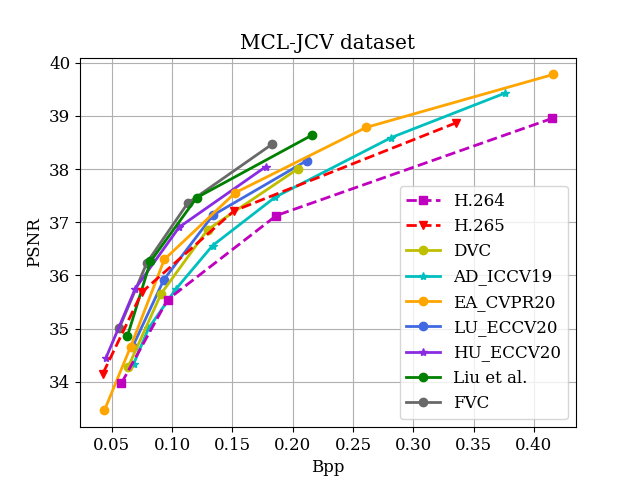
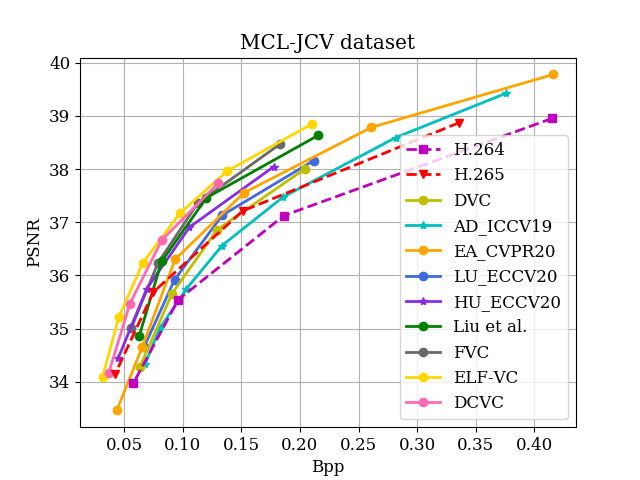
add benchmark

diff --git a/Benchmark/draw_HEVC.py b/Benchmark/draw_HEVC.py
@@ -28,6 +28,9 @@ def drawhevc(hclass):
         bpp, psnr = [0.2355, 0.1192, 0.0739, 0.0559], [35.5245, 34.416, 33.3334, 32.0969]
         Liu, = plt.plot(bpp, psnr, "c-o", color="green", linewidth=LineWidth, label='Liu et al.')
 
+        bpp, psnr =[0.040289277833824355, 0.061040674080699686, 0.09433236599713564, 0.15265098729928334], [31.616849353790283, 32.84782929992676, 33.94570527267456, 34.87294593811035] 
+        DCVC, = plt.plot(bpp, psnr, "c-o", color="hotpink", linewidth=LineWidth, label='DCVC')
+
         # bpp = [0.0661, 0.09362000000000001, 0.14695999999999998, 0.2232]
         # psnr = [32.721524294756705, 33.61284158051482, 34.75174138791608, 35.718610694312616]
         # msssim = [0.959144, 0.964186, 0.97111, 0.9765840000000001]
@@ -65,6 +68,9 @@ def drawhevc(hclass):
 
         bpp, psnr = [0.3777, 0.2371, 0.1446, 0.0982], [33.6704, 32.3317, 30.7426, 29.273]
         Liu, = plt.plot(bpp, psnr, "c-o", color="green", linewidth=LineWidth, label='Liu et al.')
+
+        bpp, psnr = [0.08087719868104853, 0.12708667685592465, 0.18865849206403185, 0.2718540310294746], [28.314245862960817, 29.971384420394898, 31.30502407550812, 32.284087176322934] 
+        DCVC, = plt.plot(bpp, psnr, "c-o", color="hotpink", linewidth=LineWidth, label='DCVC')
         
         # bpp = [0.12157499999999999, 0.17965, 0.271025, 0.38745]
         # psnr = [28.63609903605147, 29.944387388321196, 31.54062511303266, 33.03500011196936]
@@ -104,6 +110,9 @@ def drawhevc(hclass):
         bpp, psnr = [0.3785, 0.2395, 0.1496, 0.1036], [34.2622, 32.5959, 30.9119, 29.4029]
         Liu, = plt.plot(bpp, psnr, "c-o", color="green", linewidth=LineWidth, label='Liu et al.')
 
+        bpp, psnr = [0.08711765038211727, 0.13590804261362385, 0.19764378561327856, 0.28633494290419753], [28.154973974227904, 29.943532361984253, 31.531896958351137, 32.7050665140152] 
+        DCVC, = plt.plot(bpp, psnr, "c-o", color="hotpink", linewidth=LineWidth, label='DCVC')
+
         
         # bpp = [0.11227499999999999, 0.17395000000000002, 0.264575, 0.38207500000000005]
         # psnr = [28.82520179437781, 30.23478970812226, 31.91116994008828, 33.53631860458036]
@@ -140,6 +149,9 @@ def drawhevc(hclass):
         bpp, psnr = [0.063, 0.0292, 0.018, 0.0137], [39.4295, 38.3259, 37.2213, 35.8482]
         Liu, = plt.plot(bpp, psnr, "c-o", color="green", linewidth=LineWidth, label='Liu et al.')
 
+        bpp, psnr = [0.01683933672804216, 0.02703989761424335, 0.035054004512332156, 0.05369957348563228], [34.676219838460284, 36.17811138153076, 37.49404130299886, 38.48175212860107] 
+        DCVC, = plt.plot(bpp, psnr, "c-o", color="hotpink", linewidth=LineWidth, label='DCVC')
+
         # bpp = [0.02223333333333333, 0.0281, 0.04416666666666667, 0.06459999999999999]
         # psnr = [36.119993400198794, 36.895272069830746, 37.95133358562974, 38.59336757723919]
         # msssim = [0.97991, 0.98177, 0.9831466666666667, 0.98547]
@@ -170,9 +182,9 @@ def drawhevc(hclass):
     if not os.path.exists(prefix):
         os.makedirs(prefix)    
     if hclass != 'E':
-        plt.legend(handles=[h264, h265, DVC, DVCp, RY, Liu, LU, RaFC, FVC], loc=4)
+        plt.legend(handles=[h264, h265, DVC, DVCp, RY, Liu, LU, RaFC, FVC, DCVC], loc=4)
     else:
-        plt.legend(handles=[h264, h265, DVC, DVCp, Liu, LU, RaFC, FVC], loc=4)
+        plt.legend(handles=[h264, h265, DVC, DVCp, Liu, LU, RaFC, FVC, DCVC], loc=4)
 
     plt.grid()
     plt.xlabel('Bpp')
@@ -198,6 +210,9 @@ def drawhevc(hclass):
 
         bpp, msssim = [0.5875, 0.3704, 0.1976, 0.1098], [0.98851, 0.98448, 0.97854, 0.97026]
         Liu, = plt.plot(bpp, msssim, "c-o", color="green", linewidth=LineWidth, label='Liu et al.')
+
+        bpp, msssim = [0.06475324752728144, 0.1195541512221098, 0.23559859975973765, 0.39073750951687497], [0.9598303587436676, 0.9699258782863617, 0.9789459744691849, 0.9851255168914795] 
+        DCVC, = plt.plot(bpp, msssim, "c-o", color="hotpink", linewidth=LineWidth, label='DCVC')
 
         # bpp = [0.0661, 0.09362000000000001, 0.14695999999999998, 0.2232]
         # psnr = [32.721524294756705, 33.61284158051482, 34.75174138791608, 35.718610694312616]
@@ -237,6 +252,9 @@ def drawhevc(hclass):
 
         bpp, msssim = [0.466, 0.2933, 0.178, 0.1147], [0.9905, 0.98659, 0.97995, 0.97085]
         Liu, = plt.plot(bpp, msssim, "c-o", color="green", linewidth=LineWidth, label='Liu et al.')
+
+        bpp, msssim = [0.08330556079921835, 0.13537671187913025, 0.218990166298124, 0.31722916534518475], [0.9553103259205818, 0.969731270223856, 0.9799207252264023, 0.9857787843048572] 
+        DCVC, = plt.plot(bpp, msssim, "c-o", color="hotpink", linewidth=LineWidth, label='DCVC')
 
 
         # bpp = [0.12157499999999999, 0.17965, 0.271025, 0.38745]
@@ -278,6 +296,9 @@ def drawhevc(hclass):
         bpp, msssim = [0.3535, 0.2227, 0.1414, 0.0963], [0.99233, 0.98849, 0.98277, 0.97411]
         Liu, = plt.plot(bpp, msssim, "c-o", color="green", linewidth=LineWidth, label='Liu et al.')
 
+        bpp, msssim = [0.07223953101965082, 0.11525956880404717, 0.18456281938279667, 0.2637081038248208], [0.9587352877855301, 0.972116578668356, 0.9819355012476444, 0.987687586247921] 
+        DCVC, = plt.plot(bpp, msssim, "c-o", color="hotpink", linewidth=LineWidth, label='DCVC')
+
         
         # bpp = [0.11227499999999999, 0.17395000000000002, 0.264575, 0.38207500000000005]
         # psnr = [28.82520179437781, 30.23478970812226, 31.91116994008828, 33.53631860458036]
@@ -314,6 +335,9 @@ def drawhevc(hclass):
         bpp, msssim = [0.2654, 0.1282, 0.0564, 0.0239], [0.99432, 0.99183, 0.9889, 0.98478]
         Liu, = plt.plot(bpp, msssim, "c-o", color="green", linewidth=LineWidth, label='Liu et al.')
 
+        bpp, msssim = [0.0254131786643217, 0.0491818304258314, 0.10638169960451849, 0.21079487220626889], [0.9789208730061849, 0.9837300658226014, 0.9879869558413823, 0.9912863037983577] 
+        DCVC, = plt.plot(bpp, msssim, "c-o", color="hotpink", linewidth=LineWidth, label='DCVC')
+
         # bpp = [0.02223333333333333, 0.0281, 0.04416666666666667, 0.06459999999999999]
         # psnr = [36.119993400198794, 36.895272069830746, 37.95133358562974, 38.59336757723919]
         # msssim = [0.97991, 0.98177, 0.9831466666666667, 0.98547]
@@ -342,9 +366,9 @@ def drawhevc(hclass):
         
     savepathmsssim = prefix + '/' + 'HEVCClass_' + hclass + '_msssim'# + '.eps'
     if hclass != 'E':
-        plt.legend(handles=[h264, h265, DVC, DVCp, RY, Liu, LU, RaFC, FVC], loc=4)
+        plt.legend(handles=[h264, h265, DVC, DVCp, RY, Liu, LU, RaFC, FVC, DCVC], loc=4)
     else:
-        plt.legend(handles=[h264, h265, DVC, DVCp, Liu, LU, RaFC, FVC], loc=4)
+        plt.legend(handles=[h264, h265, DVC, DVCp, Liu, LU, RaFC, FVC, DCVC], loc=4)
 
     plt.grid()
     plt.xlabel('Bpp')

diff --git a/Benchmark/draw_mcl.py b/Benchmark/draw_mcl.py
@@ -25,7 +25,13 @@ bpp, psnr =  [0.043773, 0.065584, 0.093487, 0.152313, 0.260900, 0.416239], [33.4
 EA, = plt.plot(bpp, psnr, "g-o", color="orange", linewidth=LineWidth, label='EA_CVPR20')
 
 bpp, psnr = [0.2156, 0.1203, 0.082, 0.0628], [38.6349, 37.4613, 36.2621, 34.8514]
-Liu, = plt.plot(bpp, psnr, "c-o", color="green", linewidth=LineWidth, label='Liu et al.')
+Liu, = plt.plot(bpp, psnr, "c-o", color="green", linewidth=LineWidth, label='Liu et al.')    
+
+bpp, psnr = [0.031640613666666664, 0.045372268000000014, 0.06589602666666668, 0.09751675000000004, 0.13806897999999998, 0.20986701666666663], [34.08598, 35.20929, 36.23114666666667, 37.16912333333334, 37.964886666666665, 38.84489333333334]
+ELF, = plt.plot(bpp, psnr, "y-o", color="gold", linewidth=LineWidth, label='ELF-VC')
+
+bpp, psnr = [0.036842105312160804, 0.055034111193376936, 0.08214686848718189, 0.1305168217933064], [34.16064132372538, 35.47007208400302, 36.663099307484096, 37.73685781055027] 
+DCVC, = plt.plot(bpp, psnr, "y-o", color="hotpink", linewidth=LineWidth, label='DCVC')
 
 
 # bpp = [0.07350666666666665, 0.09998666666666667, 0.14866666666666667, 0.20885666666666666]
@@ -56,7 +62,7 @@ savepathpsnreps = prefix + '/MCL_psnr' + '.eps'
 print(prefix)
 if not os.path.exists(prefix):
     os.makedirs(prefix)
-plt.legend(handles=[h264, h265, DVC, iccv19, EA, LU, rafc, Liu, FVC], loc=4)
+plt.legend(handles=[h264, h265, DVC, iccv19, EA, LU, rafc, Liu, FVC, ELF, DCVC], loc=4)
 plt.grid()
 plt.xlabel('Bpp')
 plt.ylabel('PSNR')
@@ -83,6 +89,12 @@ EA, = plt.plot(bpp, psnr, "g-o", color="orange", linewidth=LineWidth, label='EA_
 bpp, psnr = [0.4664, 0.2951, 0.1752, 0.1074], [0.99009, 0.98783, 0.98307, 0.9774]
 Liu, = plt.plot(bpp, psnr, "c-o", color="green", linewidth=LineWidth, label='Liu et al.')
 
+bpp, msssim =  [0.028632991, 0.044951392666666666, 0.07287183333333334, 0.11613923, 0.19002066333333334, 0.30141713333333336], [0.9616781000000003, 0.9696877, 0.9759109333333333, 0.9810244333333332, 0.9856295666666669, 0.9889936000000001]
+ELF, = plt.plot(bpp, msssim, "y-o", color="gold", linewidth=LineWidth, label='ELF-VC')
+
+bpp, msssim = [0.061002279768288314, 0.10433220013841572, 0.18810562626776042, 0.2957224117895519], [0.9700077049599753, 0.9777150785923004, 0.9841031651033295, 0.9882810191644562] 
+DCVC, = plt.plot(bpp, msssim, "y-o", color="hotpink", linewidth=LineWidth, label='DCVC')
+
 bpp = [0.067980956, 0.080343472, 0.102782285, 0.133500782, 0.18545014, 0.281805116, 0.376178686]#, 0.543077581]
 psnr = [34.33114855, 35.00107532, 35.7351181, 36.56075116, 37.47248012, 38.5945216, 39.43083815]#, 40.29353013]
 msssim = [0.956373977, 0.96103441, 0.966706579, 0.971418613, 0.976173806, 0.982212426, 0.984971718]#, 0.987377043]
@@ -103,7 +115,7 @@ h265, = plt.plot(bpp, msssim, "r--v", linewidth=LineWidth, label='H.265')
 
 savepathmsssim = prefix + '/' + 'MCL_msssim' + '.png'
 savepathmsssimeps = prefix + '/' + 'MCL_msssim' + '.eps'
-plt.legend(handles=[h264, h265, DVC, EA, iccv19, LU, rafc, Liu, FVC], loc=4)
+plt.legend(handles=[h264, h265, DVC, EA, iccv19, LU, rafc, Liu, FVC, ELF, DCVC], loc=4)
 plt.grid()
 plt.xlabel('Bpp')
 plt.ylabel('MS-SSIM')

diff --git a/Benchmark/draw_uvg.py b/Benchmark/draw_uvg.py
@@ -37,6 +37,12 @@ RY, = plt.plot(bpp, msssim, "c-o", color="darkred", linewidth=LineWidth, label='
 bpp, psnr = [0.1744, 0.0865, 0.0572, 0.0406], [38.1853, 37.0549, 35.9941, 34.702]
 Liu, = plt.plot(bpp, psnr, "c-o", color="green", linewidth=LineWidth, label='Liu et al.')
 
+bpp, psnr = [0.022278671428571428, 0.03234948571428571, 0.048048985714285716, 0.07333342857142858, 0.10288118571428573, 0.17053944285714287], [33.98692857142857, 35.08148571428571, 36.07285714285714, 37.00525714285714, 37.60955714285715, 38.5164]
+ELF, = plt.plot(bpp, psnr, "y-o", color="gold", linewidth=LineWidth, label='ELF-VC')
+
+bpp, psnr = [0.02709702142196456, 0.04098199165086189, 0.06370908663667266, 0.10385984934969908], [34.011881197066536, 35.20922313871838, 36.35551458086286, 37.444169357844764] 
+DCVC, = plt.plot(bpp, psnr, "y-o", color="hotpink", linewidth=LineWidth, label='DCVC')
+
 bpp = [0.12377, 0.16239, 0.1983, 0.229, 0.2699, 0.3113]
 psnr = [36.0736, 36.663, 36.9157, 37.1818, 37.5149, 37.6513]
 eccv, = plt.plot(bpp, psnr, "b-*", linewidth=LineWidth, label='CW_ECCV18')
@@ -63,7 +69,7 @@ savepathpsnr = prefix + '/UVG_psnr'
 print(prefix)
 if not os.path.exists(prefix):
     os.makedirs(prefix)
-plt.legend(handles=[h264, h265, DVC, DVCp, eccv, iccv, EA, RY, Liu, LU, rafc, FVC], loc=4)
+plt.legend(handles=[h264, h265, DVC, DVCp, eccv, iccv, EA, RY, Liu, LU, rafc, FVC, ELF, DCVC], loc=4)
 plt.grid()
 plt.xlabel('Bpp')
 plt.ylabel('PSNR')
@@ -97,6 +103,12 @@ RY, = plt.plot(bpp, msssim, "c-o", color="darkred", linewidth=LineWidth, label='
 bpp, msssim = [0.5185, 0.3277, 0.1881, 0.1114], [0.9895, 0.98579, 0.98059, 0.97362]
 Liu, = plt.plot(bpp, msssim, "c-o", color="green", linewidth=LineWidth, label='Liu et al.')
 
+bpp, msssim = [0.026518999999999997, 0.045849528571428565, 0.07756718571428571, 0.13408444285714285, 0.22206234285714288, 0.36636842857142854], [0.9544165714285715, 0.9643894285714285, 0.9716755714285714, 0.9783591428571429, 0.9836682857142857, 0.9878185714285713]
+ELF, = plt.plot(bpp, msssim, "y-o", color="gold", linewidth=LineWidth, label='ELF-VC')
+
+bpp, msssim = [0.06470023000139802, 0.117681422150206, 0.21378619037745963, 0.33380794143865977], [0.9653042291601499, 0.9746489052971204, 0.9819777869752475, 0.9872394470941452] 
+DCVC, = plt.plot(bpp, msssim, "y-o", color="hotpink", linewidth=LineWidth, label='DCVC')
+
 bpp = [0.12377, 0.16239, 0.1983, 0.229, 0.2699, 0.3113]
 msssim = [0.96126, 0.96591, 0.96708, 0.96867, 0.97117, 0.97186]
 eccv, = plt.plot(bpp, msssim, "b-*", linewidth=LineWidth, label='CW_ECCV18')
@@ -122,7 +134,7 @@ h265, = plt.plot(bpp, msssim, "r--v", linewidth=LineWidth, label='H.265')
 
 
 savepathmsssim = prefix + '/' + 'UVG_msssim'# + '.eps'
-plt.legend(handles=[h264, h265, DVC, DVCp, eccv, ha_iccv, iccv, EA, RY, Liu, LU, rafc, FVC], loc=4)
+plt.legend(handles=[h264, h265, DVC, DVCp, eccv, ha_iccv, iccv, EA, RY, Liu, LU, rafc, FVC, ELF, DCVC], loc=4)
 plt.grid()
 plt.xlabel('Bpp')
 plt.ylabel('MS-SSIM')

diff --git a/Benchmark/README.md b/Benchmark/README.md
@@ -13,6 +13,8 @@
 - <font color="#4169E1">LU_ECCV20</font> : [Content Adaptive and Error Propagation Aware Deep Video Compression](https://arxiv.org/pdf/2003.11282.pdf)
 - <font color="#696969">FVC</font> : [FVC: A New Framework towards Deep Video Compression in Feature Space](https://arxiv.org/pdf/2105.09600.pdf)
 - <font color="#15b01a">Liu et al.</font> : [Learned Video Compression with Residual Prediction and Loop Filter](https://arxiv.org/pdf/2108.08551.pdf)
+- <font color="#FFD61C">ELF</font> : [ELF-VC: Efficient Learned Flexible-Rate Video Coding](https://openaccess.thecvf.com/content/ICCV2021/papers/Rippel_ELF-VC_Efficient_Learned_Flexible-Rate_Video_Coding_ICCV_2021_paper.pdf)
+- <font color="#FF6BB3">DCVC</font> : [Deep Contextual Video Compression](https://proceedings.nips.cc/paper/2021/file/96b250a90d3cf0868c83f8c965142d2a-Paper.pdf)
 <!-- - <font color="#ff8c0f">M-LVC</font> : [M-LVC: Multiple Frames Prediction for Learned Video Compression](https://arxiv.org/abs/2004.10290) (questionable) -->
 
 
@@ -45,16 +47,16 @@
 
 BDBR results (%) when compared with H.264. Negative values in BDBR indicate bit-rate savings.
 
-| Datasets             | H.265  | DVC    | DVC++  | AD_ICCV19 | RY_CVPR20 | EA_CVPR20 | Liu et al. | LU_ECCV20 | HU_ECCV20 | FVC    |
-|:-----------------    | :----: | :----: | :----: | :-------: | :-------: | :-------: | :--------: | :-------: | :-------: | :----: |
-| HEVC Class A Dataset | -14.75 | -24.53 |        |           |           |           |            |           | -32.32    | -38.62 |
-| HEVC Class B Dataset | -21.95 | -18.18 | -35.75 |           |  -28.94   |           |   -51.59   |  -33.55   | -33.49    | -39.72 |
-| HEVC Class C Dataset | -14.48 |  1.60  | -14.62 |           |  -4.83    |           |   -30.95   |  -17.70   | -14.30    | -26.40 |
-| HEVC Class D Dataset | -12.40 | -1.57  | -18.69 |           |  -21.47   |           |   -41.48   |  -19.35   | -15.13    | -28.31 |
-| HEVC Class E Dataset | -30.81 | -26.91 | -42.24 |           |           |           |   -67.83   |  -36.85   | -44.60    | -42.16 |
-| UVG Dataset          | -26.07 | -19.39 | -39.91 |  -47.39   |           |  -32.40   |   -48.12   |  -30.52   | -35.76    | -46.28 |
-| MCL Dataset          | -23.86 | -14.51 |        |  -8.89    |           |  -24.74   |   -37.12   |  -20.62   | -35.01    | -40.52 |
-| VTL Dataset          | -12.31 | -21.93 |        |  -12.25   |           |           |   -46.58   |  -27.06   | -30.04    | -36.53 |
+| Datasets             | H.265  | DVC    | DVC++  | AD_ICCV19 | RY_CVPR20 | EA_CVPR20 | Liu et al. | LU_ECCV20 | HU_ECCV20 | FVC    | ELF    | DCVC   |
+|:-----------------    | :----: | :----: | :----: | :-------: | :-------: | :-------: | :--------: | :-------: | :-------: | :----: | :----: | :----: |
+| HEVC Class A Dataset | -14.75 | -24.53 |        |           |           |           |            |           | -32.32    | -38.62 |        |        |
+| HEVC Class B Dataset | -21.95 | -18.18 | -35.75 |           |  -28.94   |           |   -51.59   |  -33.55   | -33.49    | -39.72 |        | -51.97 |
+| HEVC Class C Dataset | -14.48 |  1.60  | -14.62 |           |  -4.83    |           |   -30.95   |  -17.70   | -14.30    | -26.40 |        | -28.98 |
+| HEVC Class D Dataset | -12.40 | -1.57  | -18.69 |           |  -21.47   |           |   -41.48   |  -19.35   | -15.13    | -28.31 |        | -36.49 |
+| HEVC Class E Dataset | -30.81 | -26.91 | -42.24 |           |           |           |   -67.83   |  -36.85   | -44.60    | -42.16 |        | -42.25 |
+| UVG Dataset          | -26.07 | -19.39 | -39.91 |  -47.39   |           |  -32.40   |   -48.12   |  -30.52   | -35.76    | -46.28 | -57.05 | -48.21 |
+| MCL Dataset          | -23.86 | -14.51 |        |  -8.89    |           |  -24.74   |   -37.12   |  -20.62   | -35.01    | -40.52 | -47.77 | -43.22 |
+| VTL Dataset          | -12.31 | -21.93 |        |  -12.25   |           |           |   -46.58   |  -27.06   | -30.04    | -36.53 |        |        |
 
 
 ## Setting of H.264 and H.265
